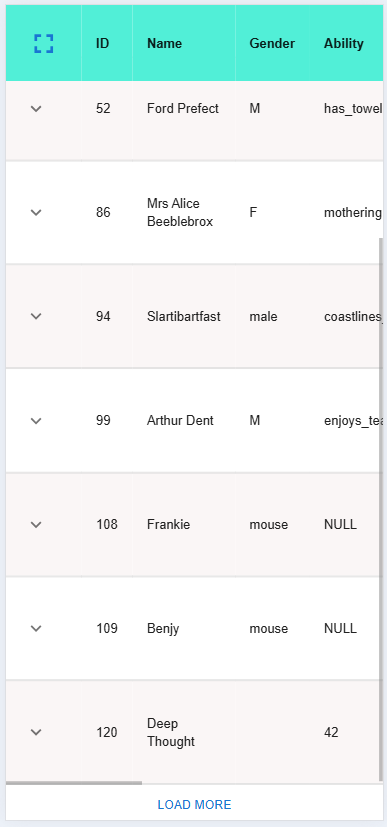
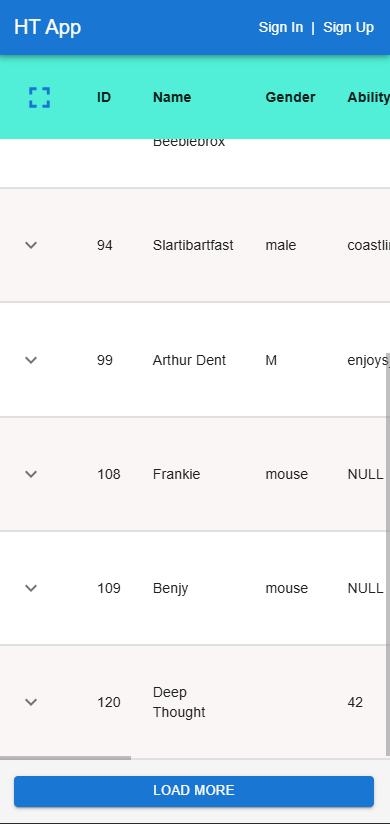
docs: update README with auth info and new screenshots

diff --git a/README.md b/README.md
@@ -1,8 +1,22 @@
 # Hierarchical Table
 
-Hierarchical Table built with `[React, TypeScript, Vite, MUI, and Redux]`.
+Hierarchical Table built with `[React, TypeScript, Vite, MUI, Redux, and Firebase]`.
 This component renders a tree-structured table with expandable and collapsible subtables. It supports row deletion along
 with all of their descendants. Designed for scalable presentation of dynamic data with full control over hierarchy and state
+
+## Authentication
+
+User authentication is implemented with Firebase and supports:
+
+- Email/password
+- Google sign-in
+- GitHub sign-in
+
+## 🧰 Additional Tools
+
+- **i18next** — for internationalization
+- **Zod** — for runtime schema validation
+- **react-hook-form** — for form state and validation
 
 ## [Live demo](https://matsola-sv.github.io/hierarchical-table/)
 
@@ -10,9 +24,17 @@ with all of their descendants. Designed for scalable presentation of dynamic dat
 
 ![Screenshot](https://raw.githubusercontent.com/matsola-sv/hierarchical-table/master/docs/screenshots/Screenshot1.png)
 
+![Screenshot](https://raw.githubusercontent.com/matsola-sv/hierarchical-table/master/docs/screenshots/Screenshot2.png)
+
+![Screenshot](https://raw.githubusercontent.com/matsola-sv/hierarchical-table/master/docs/screenshots/Screenshot3.png)
+
 ### Mobile version
 
 ![Screenshot](https://raw.githubusercontent.com/matsola-sv/hierarchical-table/master/docs/screenshots/Screenshot-mobile1.png)
+
+![Screenshot](https://raw.githubusercontent.com/matsola-sv/hierarchical-table/master/docs/screenshots/Screenshot-mobile2.png)
+
+![Screenshot](https://raw.githubusercontent.com/matsola-sv/hierarchical-table/master/docs/screenshots/Screenshot-mobile3.png)
 
 ## Run Locally
 
